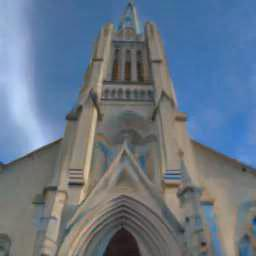
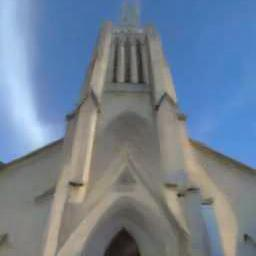
Finished my part, ready for clean up

diff --git a/figure-generator.py b/figure-generator.py
@@ -292,11 +292,11 @@ print(np.std(noisy_img-clean))
 # print(calc_psnr(noisy_img, clean))  # 16.87135728981658
 # print(calc_psnr_hvsm(noisy_img, clean))   # 17.714713168601556
 # print(calc_ssim(noisy_img, clean))  # 0.4436537359259245
-x = torch.Tensor([noisy_img.transpose([2, 0, 1])]).to(DEVICE)
-curr_step = 75
+# x = torch.Tensor([noisy_img.transpose([2, 0, 1])]).to(DEVICE)
+# curr_step = 150
 # denoised = diffusion.denoise(1, x=x, curr_step=curr_step, n_steps=curr_step)[0, ...].cpu().detach().numpy().transpose([1,2,0])
 # plt.imsave("realistic_denoised.jpg", np.clip(denoised, a_min=0., a_max=1.))
-denoised = io.imread(f"./samples/mprnet-denoised/unprocess.jpg").astype(float) / 255
+denoised = io.imread(f"./samples/bilateral-denoised/unprocess.jpg").astype(float) / 255
 print(calc_psnr(denoised, clean))
 print(calc_psnr_hvsm(denoised, clean))
 print(calc_ssim(denoised, clean))
